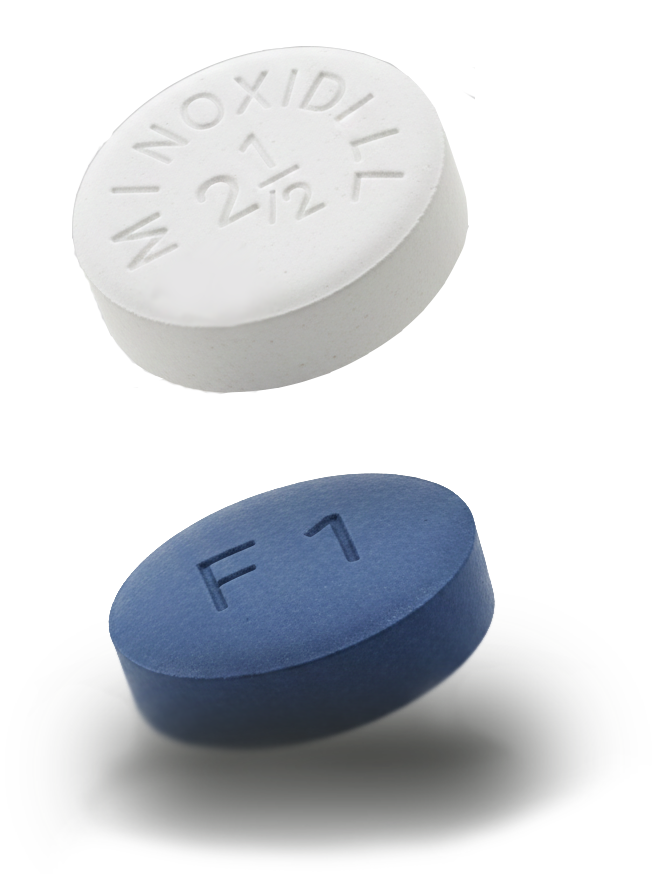
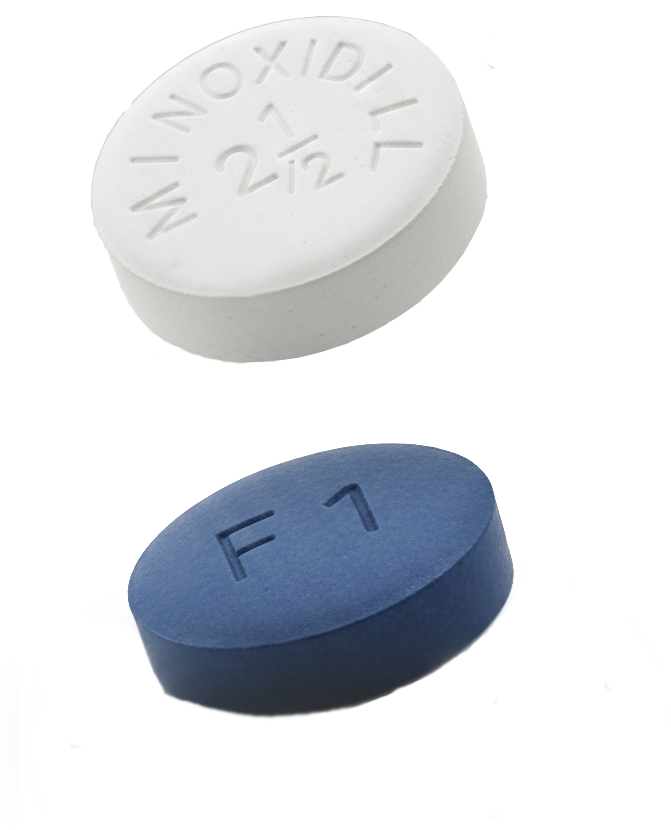
Divide shadow images

diff --git a/constants.tsx b/constants.tsx
@@ -2,11 +2,14 @@
 import { ProductGroup } from './types';
 
 export const COLORS = {
-  primary: '#0A2621',
-  secondary: '#E8EFE8',
-  accent: '#B87333',
-  bg: '#F9F7F2',
-  text: '#1A1A1A',
+  primary: '#002534', // Brand Dark Blue
+  secondary: '#E6E7E9', // Brand Cream/Off-white
+  brandTeal: '#00B6A0',
+  brandOrange: '#F26422',
+  accent: '#B87333', // User requested to keep this for buttons
+  greenButton: '#0A2621', // User requested to keep this for buttons
+  bg: '#E6E7E9',
+  text: '#002534',
 };
 
 export const PRODUCT_GROUPS: ProductGroup[] = [
@@ -15,8 +18,9 @@ export const PRODUCT_GROUPS: ProductGroup[] = [
     title: 'Lose weight',
     description: 'Access a range of GLP-1 treatment plans.',
     imageUrl: '/weight.png', 
+    shadowUrl: '/weight-shadow.png',
     path: '/weight',
-    hoverBg: 'hover:bg-[#FFF1E7]', // Muted Orange
+    hoverBg: 'hover:bg-[#FFF4ED]', // Pleasant Muted Orange
     prompt: "High-end product shot of GLP-1 vial, blue cap, clean pharmaceutical style.",
   },
   {
@@ -24,8 +28,9 @@ export const PRODUCT_GROUPS: ProductGroup[] = [
     title: 'Have better sex',
     description: 'Clinically proven solutions for performance and libido.',
     imageUrl: '/sex.png',
+    shadowUrl: '/sex-shadow.png',
     path: '/sex',
-    hoverBg: 'hover:bg-[#E9F5FF]', // Muted Light Blue
+    hoverBg: 'hover:bg-[#F2F8FF]', // Pleasant Muted Light Blue
     prompt: "Blue and tan pills on a minimalist white linen bed, editorial lighting.",
   },
   {
@@ -33,8 +38,9 @@ export const PRODUCT_GROUPS: ProductGroup[] = [
     title: 'Regrow hair',
     description: 'Stop hair loss and start growing with prescription power.',
     imageUrl: '/hair.png',
+    shadowUrl: '/hair-shadow.png',
     path: '/hair',
-    hoverBg: 'hover:bg-[#FFF0F0]', // Muted Red
+    hoverBg: 'hover:bg-[#FFF2F2]', // Pleasant Muted Red
     prompt: "White and blue minoxidil pills, top-down clean studio shot.",
   },
   {
@@ -42,8 +48,9 @@ export const PRODUCT_GROUPS: ProductGroup[] = [
     title: 'Boost testosterone',
     description: 'Personalized plans to help you get your edge back.',
     imageUrl: '/testosterone.png',
+    shadowUrl: '/testosterone-shadow.png',
     path: '/testosterone',
-    hoverBg: 'hover:bg-[#F9F3E7]', // Muted Tan/Yellowish
+    hoverBg: 'hover:bg-[#FAF6EE]', // Pleasant Muted Tan/Yellowish
     prompt: "Yellow and black enclomiphene capsules floating, professional branding.",
   },
 ];

diff --git a/components/HeroGrid.tsx b/components/HeroGrid.tsx
@@ -38,13 +38,19 @@ const HeroGrid: React.FC = () => {
                 </p>
               </div>
               
-              {/* Product Animation Container */}
+              {/* Product Visual Container */}
               <div className="absolute right-[-20px] bottom-[-20px] w-64 h-64 pointer-events-none">
                 
-                {/* Fixed "Ground" Shadow - This stays at the bottom and only expands/softens */}
-                <div className="absolute bottom-10 left-1/2 -translate-x-1/2 w-[60%] h-6 bg-[#002534]/15 rounded-[100%] blur-xl transition-all duration-700 ease-out group-hover:scale-x-[1.8] group-hover:scale-y-[1.4] group-hover:bg-[#002534]/5 group-hover:blur-2xl" />
+                {/* 1. Ground Shadow Image - This asset you provide stays locked to the bottom */}
+                <div className="absolute inset-0 flex items-end justify-center">
+                  <img 
+                    src={group.shadowUrl} 
+                    alt="" 
+                    className="w-full h-full object-contain transition-all duration-700 ease-[cubic-bezier(0.23,1,0.32,1)] transform origin-bottom group-hover:scale-x-125 group-hover:scale-y-110 group-hover:opacity-30 group-hover:blur-[4px]"
+                  />
+                </div>
 
-                {/* Floating Product Image - Only the image moves and scales */}
+                {/* 2. Floating Product Image - This performs the vertical 'lift' animation */}
                 <img 
                   src={group.imageUrl} 
                   alt={group.title}

diff --git a/types.ts b/types.ts
@@ -1,8 +1,10 @@
+
 export interface ProductGroup {
   id: string;
   title: string;
   description: string;
   imageUrl: string;
+  shadowUrl: string; // Separate asset for the "grounded" shadow
   prompt: string;
   path: string;
   hoverBg: string;
